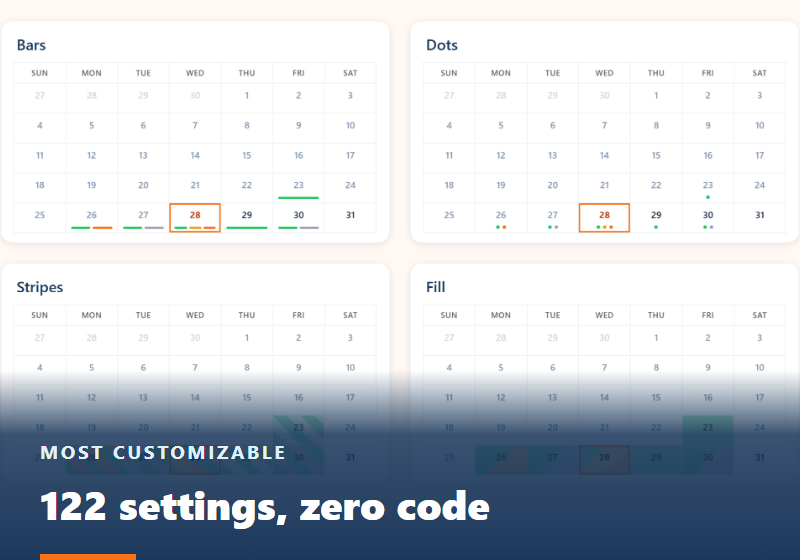
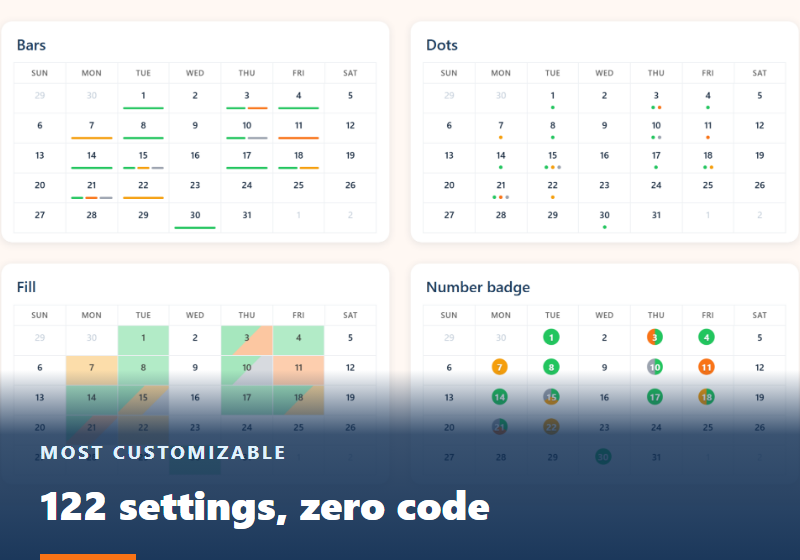
Status styles slide on the homepage carousel; blog shows bars, dots, fill and number badge
New showcase month: one-, two- and three-status days with white space between.
Stripes retired; Fill keeps the solid look and the fourth style is a number badge.

diff --git a/blog/most-customizable-salesforce-calendar.html b/blog/most-customizable-salesforce-calendar.html
@@ -146,8 +146,8 @@
             "@context": "https://schema.org",
             "@graph": [
                 {"@type": "Article", "headline": "The Most Customizable Salesforce Calendar App", "description": "MultiDatePick is the most customizable calendar app for Salesforce: 122 settings across three components, five views, four status styles and nine languages, all set without code.", "datePublished": "2026-10-28", "dateModified": "2026-10-28", "author": {"@type": "Organization", "name": "MultiDatePick"}, "publisher": {"@type": "Organization", "name": "MultiDatePick"}, "mainEntityOfPage": "https://multidatepick.com/blog/most-customizable-salesforce-calendar.html", "image": "https://multidatepick.com/images/views/salesforce-calendar-status-display-styles.png"},
-                {"@type": "FAQPage", "mainEntity": [{"@type": "Question", "name": "What is the most customizable calendar app for Salesforce?", "acceptedAnswer": {"@type": "Answer", "text": "MultiDatePick exposes 122 settings across its Date, Date Time and Booking components: which objects and fields it reads, how people pick dates and times, which of five views they see, how statuses are drawn, what every button says and which of nine languages it speaks. Every setting is a field in App Builder and in a setup wizard, so none of it needs code."}}, {"@type": "Question", "name": "Do I need a developer to customize it?", "acceptedAnswer": {"@type": "Answer", "text": "No. Every setting is a property in Lightning App Builder, Experience Builder and Flow Builder, and the Setup Wizard walks through them with dropdowns of your own objects and fields. A configuration can be saved and reused on any number of pages."}}, {"@type": "Question", "name": "Can the calendar use my own objects?", "acceptedAnswer": {"@type": "Answer", "text": "Yes. It reads and writes the objects and fields you point it at: dates on any object, bookings against any resource object, including User, with optional capacity, status, end date and time fields."}}, {"@type": "Question", "name": "Can I change how booking statuses look?", "acceptedAnswer": {"@type": "Answer", "text": "Yes. Pick a color for each status value, then choose how a day shows them: bars under the day, dots, diagonal stripes or a full fill. Status pills above the calendar let people filter by status, and you can hide statuses by default."}}, {"@type": "Question", "name": "Is there a faster way than setting 122 options?", "acceptedAnswer": {"@type": "Answer", "text": "Start from one of the 41 ready-to-import configs in the Config Library, such as interview scheduling, room booking or team capacity, and change only what differs for you."}}]},
-                {"@type": "ImageObject", "contentUrl": "https://multidatepick.com/images/views/salesforce-calendar-status-display-styles.png", "caption": "The same Salesforce booking month in MultiDatePick's four Status Display styles: bars under each day, dots, diagonal stripes and a full fill, each colored by appointment status", "width": 2000, "height": 1205, "creditText": "MultiDatePick", "creator": {"@type": "Organization", "name": "MultiDatePick"}},
+                {"@type": "FAQPage", "mainEntity": [{"@type": "Question", "name": "What is the most customizable calendar app for Salesforce?", "acceptedAnswer": {"@type": "Answer", "text": "MultiDatePick exposes 122 settings across its Date, Date Time and Booking components: which objects and fields it reads, how people pick dates and times, which of five views they see, how statuses are drawn, what every button says and which of nine languages it speaks. Every setting is a field in App Builder and in a setup wizard, so none of it needs code."}}, {"@type": "Question", "name": "Do I need a developer to customize it?", "acceptedAnswer": {"@type": "Answer", "text": "No. Every setting is a property in Lightning App Builder, Experience Builder and Flow Builder, and the Setup Wizard walks through them with dropdowns of your own objects and fields. A configuration can be saved and reused on any number of pages."}}, {"@type": "Question", "name": "Can the calendar use my own objects?", "acceptedAnswer": {"@type": "Answer", "text": "Yes. It reads and writes the objects and fields you point it at: dates on any object, bookings against any resource object, including User, with optional capacity, status, end date and time fields."}}, {"@type": "Question", "name": "Can I change how booking statuses look?", "acceptedAnswer": {"@type": "Answer", "text": "Yes. Pick a color for each status value, then choose how a day shows them: bars under the day, dots, a tinted fill, or the date in a colored number badge. Status pills above the calendar let people filter by status, and you can hide statuses by default."}}, {"@type": "Question", "name": "Is there a faster way than setting 122 options?", "acceptedAnswer": {"@type": "Answer", "text": "Start from one of the 41 ready-to-import configs in the Config Library, such as interview scheduling, room booking or team capacity, and change only what differs for you."}}]},
+                {"@type": "ImageObject", "contentUrl": "https://multidatepick.com/images/views/salesforce-calendar-status-display-styles.png", "caption": "One Salesforce booking month in MultiDatePick's four Status Display styles: bars under each day, dots, a tinted fill split diagonally when statuses mix, and the date in a colored number badge", "width": 2000, "height": 1205, "creditText": "MultiDatePick", "creator": {"@type": "Organization", "name": "MultiDatePick"}},
                 {"@type": "ImageObject", "contentUrl": "https://multidatepick.com/images/wizard/salesforce-setup-wizard-walkthrough.gif", "thumbnailUrl": "https://multidatepick.com/images/wizard/salesforce-setup-wizard-walkthrough-poster.png", "caption": "Animated walkthrough of the MultiDatePick Setup Wizard in Salesforce: choosing objects and fields from dropdowns, then views and display options, with no code", "creditText": "MultiDatePick", "creator": {"@type": "Organization", "name": "MultiDatePick"}}
             ]
         }
@@ -170,17 +170,17 @@
                 <div class="tl-feats tl-wide">
                     <div class="tl-feat"><h3>122 settings</h3><p>Across the Date, Date Time and Booking components. Each one is a field in App Builder, Experience Builder and Flow.</p></div>
                     <div class="tl-feat"><h3>5 views</h3><p>Calendar, Timeline, Week, Utilization and Agenda. Offer all five, or only the ones a page needs.</p></div>
-                    <div class="tl-feat"><h3>4 status styles</h3><p>Bars, dots, stripes or fill, in the colors you pick for each status value.</p></div>
+                    <div class="tl-feat"><h3>4 status styles</h3><p>Bars, dots, fill or a number badge, in the colors you pick for each status value.</p></div>
                     <div class="tl-feat"><h3>9 languages</h3><p>English plus German, Spanish, French, Hindi, Italian, Japanese, Brazilian Portuguese and Simplified Chinese.</p></div>
                     <div class="tl-feat"><h3>5 sizes</h3><p>From a dashboard tile or utility bar up to a full-page booking screen.</p></div>
                     <div class="tl-feat"><h3>41 starting points</h3><p>Ready-to-import configs in the <a href="/configlibrary.html">Config Library</a>, so you rarely start from blank.</p></div>
                 </div>
 
                 <h2 style="margin-top:44px;">Make it look like your process</h2>
-                <p>Statuses carry the meaning in most booking processes: requested, confirmed, completed, no-show. Give each status value its own color, then choose how a day shows them. The same month below is drawn four ways, set by one setting, <code>statusDisplay</code>. Bars and dots keep the day white, so a person's own picks stay the loudest thing on it. Stripes and fill tint the whole day for teams that want status at a glance from across the room.</p>
+                <p>Statuses carry the meaning in most booking processes: requested, confirmed, completed, no-show. Give each status value its own color, then choose how a day shows them. The same month below is drawn four ways, set by one setting, <code>statusDisplay</code>. Bars, dots and the number badge keep the day white, so a person's own picks stay the loudest thing on it. Fill tints the whole day for teams that want status at a glance from across the room.</p>
                 <figure class="sc-shot">
-                    <img src="/images/views/salesforce-calendar-status-display-styles.png" alt="The same Salesforce booking month in MultiDatePick's four Status Display styles: bars under each day, dots, diagonal stripes and a full fill, each colored by appointment status" loading="lazy" decoding="async" width="2000" height="1205" data-zoomable>
-                    <figcaption>One month, four Status Display styles. Days that mix statuses show every color they hold.</figcaption>
+                    <img src="/images/views/salesforce-calendar-status-display-styles.png" alt="One Salesforce booking month in MultiDatePick's four Status Display styles: bars under each day, dots, a tinted fill split diagonally when statuses mix, and the date in a colored number badge" loading="lazy" decoding="async" width="2000" height="1205" data-zoomable>
+                    <figcaption>One month, four Status Display styles. Days that mix statuses show every color they hold: Fill splits the day, the badge splits like a pie.</figcaption>
                 </figure>
                 <p>Around that sit the smaller choices that make a calendar feel like it belongs to you: the title, the label on every button ("Save Appointment", "Schedule Engagement"), the labels on the status fields, whether weeks start on Monday, one month or two side by side, and which booking fields appear in the card when someone hovers a day.</p>
 
@@ -215,7 +215,7 @@
                 <table class="property-table bp-grid">
                     <thead><tr><th style="width:28%;">Setting</th><th>What it does</th><th style="width:22%;">API name</th></tr></thead>
                     <tbody>
-                    <tr><td>Status Display</td><td>How a day shows its statuses: bars, dots, stripes or fill.</td><td><code>statusDisplay</code></td></tr>
+                    <tr><td>Status Display</td><td>How a day shows its statuses: bars, dots, fill or a number badge.</td><td><code>statusDisplay</code></td></tr>
                     <tr><td>Status Colors</td><td>A color for each status value, used on days, slots, bars and pills.</td><td><code>statusColors</code></td></tr>
                     <tr><td>Available Views</td><td>Which of the five views the switcher offers.</td><td><code>availableViews</code></td></tr>
                     <tr><td>Calendar Size</td><td>Tiny, very small, small, medium or large, to fit a tile, a sidebar or a full page.</td><td><code>calendarSize</code></td></tr>
@@ -235,7 +235,7 @@
                     <details><summary>What is the most customizable calendar app for Salesforce?</summary><p>MultiDatePick exposes 122 settings across its Date, Date Time and Booking components: which objects and fields it reads, how people pick dates and times, which of five views they see, how statuses are drawn, what every button says and which of nine languages it speaks. Every setting is a field in App Builder and in a setup wizard, so none of it needs code.</p></details>
                     <details><summary>Do I need a developer to customize it?</summary><p>No. Every setting is a property in Lightning App Builder, Experience Builder and Flow Builder, and the Setup Wizard walks through them with dropdowns of your own objects and fields. A configuration can be saved and reused on any number of pages.</p></details>
                     <details><summary>Can the calendar use my own objects?</summary><p>Yes. It reads and writes the objects and fields you point it at: dates on any object, bookings against any resource object, including User, with optional capacity, status, end date and time fields.</p></details>
-                    <details><summary>Can I change how booking statuses look?</summary><p>Yes. Pick a color for each status value, then choose how a day shows them: bars under the day, dots, diagonal stripes or a full fill. Status pills above the calendar let people filter by status, and you can hide statuses by default.</p></details>
+                    <details><summary>Can I change how booking statuses look?</summary><p>Yes. Pick a color for each status value, then choose how a day shows them: bars under the day, dots, a tinted fill, or the date in a colored number badge. Status pills above the calendar let people filter by status, and you can hide statuses by default.</p></details>
                     <details><summary>Is there a faster way than setting 122 options?</summary><p>Start from one of the 41 ready-to-import configs in the Config Library, such as interview scheduling, room booking or team capacity, and change only what differs for you.</p></details>
                 </div>
 

diff --git a/index.html b/index.html
@@ -109,6 +109,7 @@
                 ]
             },
             {"@type": "ImageObject", "contentUrl": "https://multidatepick.com/images/views/salesforce-resource-timeline-view.png", "caption": "Salesforce resource timeline in MultiDatePick: advisors down the side, dates across the top, Day, Week and Month zoom, a combined capacity strip, and multi-day client engagements drawn as continuous bars that stack into lanes when they overlap", "creditText": "MultiDatePick", "creator": {"@type": "Organization", "name": "MultiDatePick"}},
+            {"@type": "ImageObject", "contentUrl": "https://multidatepick.com/images/views/salesforce-calendar-status-display-styles.png", "caption": "One Salesforce booking month in MultiDatePick's four Status Display styles: bars under each day, dots, a tinted fill split diagonally when statuses mix, and the date in a colored number badge", "width": 2000, "height": 1205, "creditText": "MultiDatePick", "creator": {"@type": "Organization", "name": "MultiDatePick"}},
             {"@type": "ImageObject", "contentUrl": "https://multidatepick.com/images/views/salesforce-week-view.png", "caption": "MultiDatePick week view on Salesforce for the whole advisor team: named client meetings drawn as status-colored blocks, overlapping bookings side by side in lanes, weekends shaded and today marked", "creditText": "MultiDatePick", "creator": {"@type": "Organization", "name": "MultiDatePick"}},
             {"@type": "ImageObject", "contentUrl": "https://multidatepick.com/images/views/salesforce-utilization-heatmap.png", "caption": "MultiDatePick utilization heatmap on Salesforce: advisors down the side, days across, each day showing booked of capacity on a blue scale, with a combined row and an average and open column", "creditText": "MultiDatePick", "creator": {"@type": "Organization", "name": "MultiDatePick"}},
             {"@type": "ImageObject", "contentUrl": "https://multidatepick.com/images/views/salesforce-agenda-view-demo-poster.png", "caption": "MultiDatePick Salesforce agenda view: upcoming appointments listed by date with time, client name, status pill and advisor", "creditText": "MultiDatePick", "creator": {"@type": "Organization", "name": "MultiDatePick"}},
@@ -353,23 +354,27 @@
                 <div class="mdp-carousel hm-carousel" data-autoplay-ms="6000" aria-roledescription="carousel" aria-label="MultiDatePick calendar views">
                     <div class="mdp-carousel__viewport">
                         <ol class="mdp-carousel__track">
-                            <li class="mdp-carousel__slide is-active is-near" aria-roledescription="slide" aria-label="1 of 5: Calendar">
+                            <li class="mdp-carousel__slide is-active is-near" aria-roledescription="slide" aria-label="1 of 6: Calendar">
                                 <img src="images/salesforce-booking-calendar-status-colors.png" alt="MultiDatePick Salesforce booking calendar showing one advisor's month: a status-colored bar under each booked day (Requested, Confirmed, Met, No-Show, Cancelled), split bars on the days that mix statuses, and a switcher for the Calendar, Timeline, Week, Utilization and Agenda views" width="1362" height="1616" fetchpriority="high" decoding="async" data-zoomable>
                                 <p class="mdp-carousel__caption"><strong>Calendar</strong>: a status-colored bar under every booked day, split when statuses mix.</p>
                             </li>
-                            <li class="mdp-carousel__slide" aria-roledescription="slide" aria-label="2 of 5: Timeline">
+                            <li class="mdp-carousel__slide" aria-roledescription="slide" aria-label="2 of 6: Status styles">
+                                <img src="images/views/salesforce-calendar-status-display-styles.png" alt="One Salesforce booking month in MultiDatePick's four Status Display styles: bars under each day, dots, a tinted fill split diagonally when statuses mix, and the date in a colored number badge" width="2000" height="1205" loading="lazy" decoding="async" data-zoomable>
+                                <p class="mdp-carousel__caption"><strong>Status styles</strong>: bars, dots, fill or a number badge, one setting.</p>
+                            </li>
+                            <li class="mdp-carousel__slide" aria-roledescription="slide" aria-label="3 of 6: Timeline">
                                 <img src="images/views/salesforce-resource-timeline-view.png" alt="Salesforce resource timeline in MultiDatePick: advisors down the side, dates across the top, Day, Week and Month zoom, a combined capacity strip, and multi-day client engagements drawn as continuous bars that stack into lanes when they overlap" width="1722" height="1782" loading="lazy" decoding="async" data-zoomable>
                                 <p class="mdp-carousel__caption"><strong>Timeline</strong>: advisors down the side, multi-day engagements as one bar.</p>
                             </li>
-                            <li class="mdp-carousel__slide" aria-roledescription="slide" aria-label="3 of 5: Week">
+                            <li class="mdp-carousel__slide" aria-roledescription="slide" aria-label="4 of 6: Week">
                                 <img src="images/views/salesforce-week-view.png" alt="MultiDatePick week view on Salesforce for the whole advisor team: named client meetings drawn as status-colored blocks, overlapping bookings side by side in lanes, weekends shaded and today marked" width="1722" height="2370" loading="lazy" decoding="async" data-zoomable>
-                                <p class="mdp-carousel__caption"><strong>Week</strong>: client meetings sized to their real length, closed hours hatched.</p>
+                                <p class="mdp-carousel__caption"><strong>Week</strong>: every advisor's meetings sized to their real length, overlaps side by side.</p>
                             </li>
-                            <li class="mdp-carousel__slide" aria-roledescription="slide" aria-label="4 of 5: Utilization">
+                            <li class="mdp-carousel__slide" aria-roledescription="slide" aria-label="5 of 6: Utilization">
                                 <img src="images/views/salesforce-utilization-heatmap.png" alt="MultiDatePick utilization heatmap on Salesforce: advisors down the side, days across, each day showing booked of capacity on a blue scale, with a combined row and an average and open column" width="1722" height="1336" loading="lazy" decoding="async" data-zoomable>
                                 <p class="mdp-carousel__caption"><strong>Utilization</strong>: how booked each advisor is every day, and who is over capacity.</p>
                             </li>
-                            <li class="mdp-carousel__slide" aria-roledescription="slide" aria-label="5 of 5: Agenda">
+                            <li class="mdp-carousel__slide" aria-roledescription="slide" aria-label="6 of 6: Agenda">
                                 <img src="images/views/salesforce-agenda-view-demo-poster.png" alt="MultiDatePick Salesforce agenda view: upcoming appointments listed by date with time, client name, status pill and advisor" width="700" height="860" loading="lazy" decoding="async" data-zoomable>
                                 <p class="mdp-carousel__caption"><strong>Agenda</strong>: the next 60 days in date order, with status and advisor.</p>
                             </li>
@@ -379,10 +384,11 @@
                     <button class="mdp-carousel__btn mdp-carousel__btn--next" type="button" aria-label="Next slide">&rsaquo;</button>
                     <div class="mdp-carousel__dots" role="group" aria-label="Choose a slide">
                         <button type="button" class="mdp-carousel__dot is-active" aria-label="Slide 1: Calendar" data-index="0"></button>
-                        <button type="button" class="mdp-carousel__dot" aria-label="Slide 2: Timeline" data-index="1"></button>
-                        <button type="button" class="mdp-carousel__dot" aria-label="Slide 3: Week" data-index="2"></button>
-                        <button type="button" class="mdp-carousel__dot" aria-label="Slide 4: Utilization" data-index="3"></button>
-                        <button type="button" class="mdp-carousel__dot" aria-label="Slide 5: Agenda" data-index="4"></button>
+                        <button type="button" class="mdp-carousel__dot" aria-label="Slide 2: Status styles" data-index="1"></button>
+                        <button type="button" class="mdp-carousel__dot" aria-label="Slide 3: Timeline" data-index="2"></button>
+                        <button type="button" class="mdp-carousel__dot" aria-label="Slide 4: Week" data-index="3"></button>
+                        <button type="button" class="mdp-carousel__dot" aria-label="Slide 5: Utilization" data-index="4"></button>
+                        <button type="button" class="mdp-carousel__dot" aria-label="Slide 6: Agenda" data-index="5"></button>
                     </div>
                 </div>
             </div>
